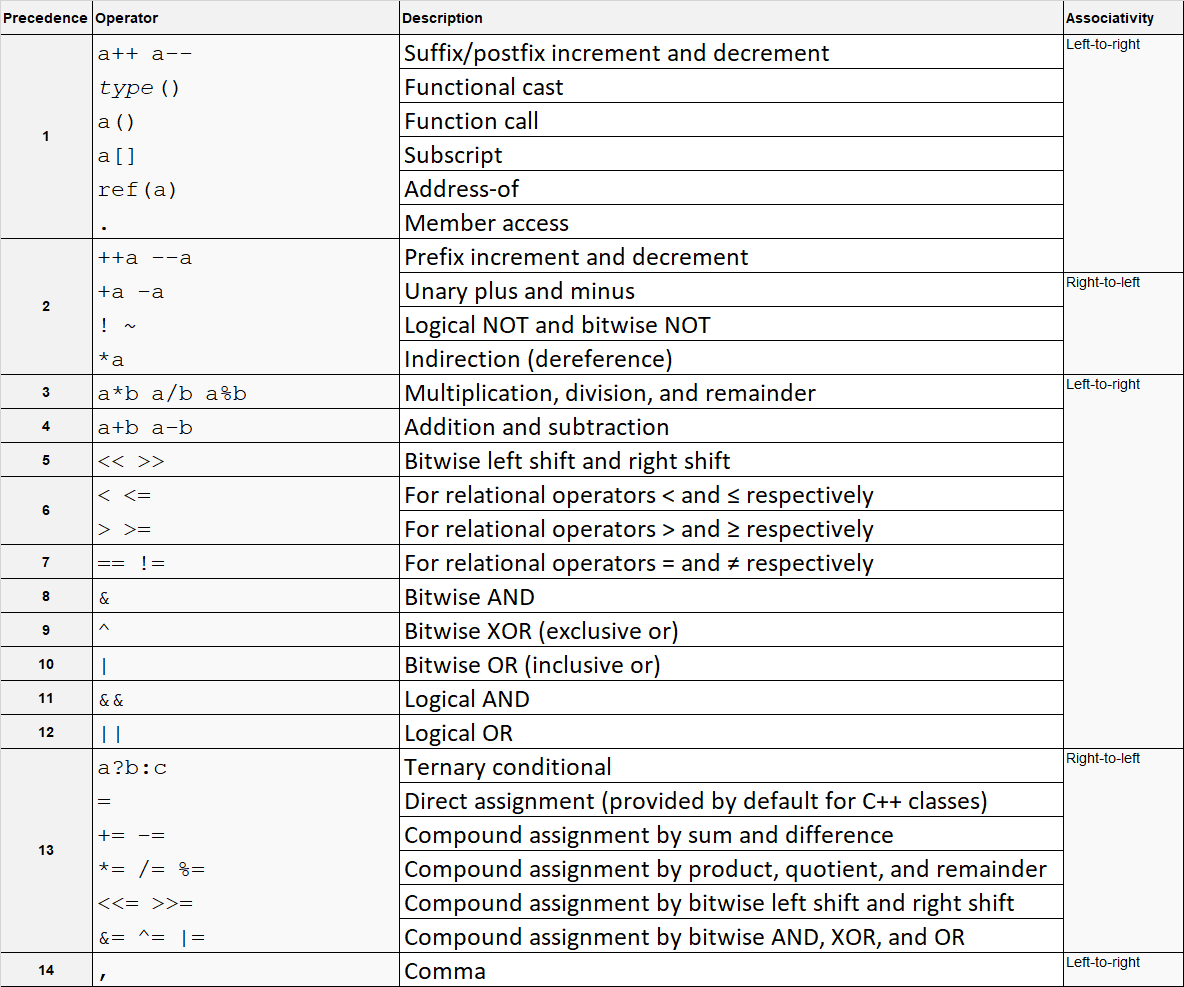
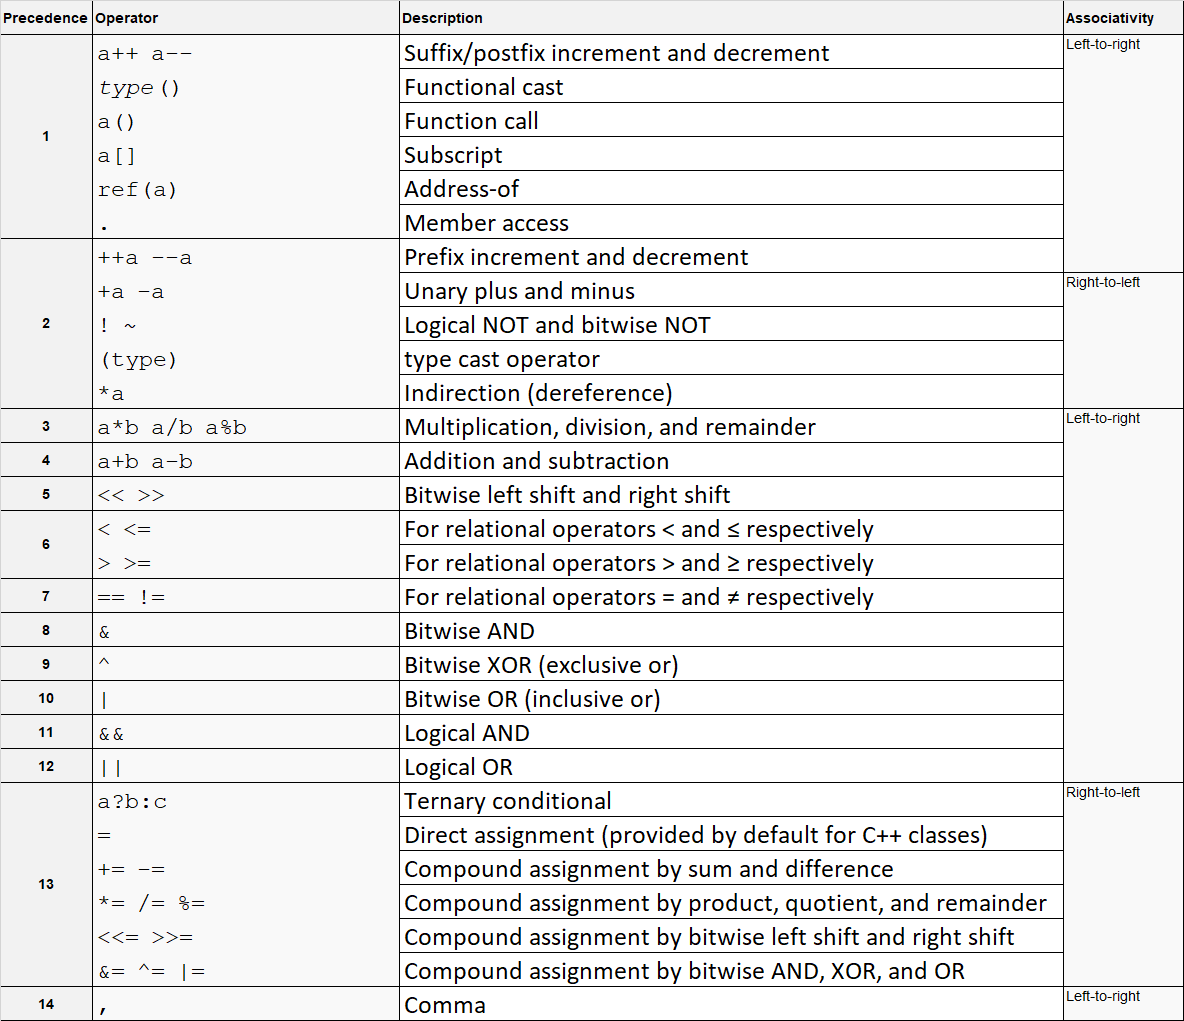
- update document.

diff --git a/README.md b/README.md
@@ -208,7 +208,7 @@ First, you must define the function in C++ part.
  Although this project take me alot of effort to build it from a simple expression parser algorithm to an usable scripting library that can compile, embeded an run the script, it needs more effort to make the library more easy to use, cross platform working...
  I share the desire items I want to implement in the future whenever I have a free time.  
  - [ ] Call un-ordered script function.
- - [ ] Support type cast operator - (Type)a.
+ - [x] Support type cast operator - (Type)a.
  - [ ] Support cross platform (Linux, Mac). Currently, support on Windows only.
  - [ ] Support template function and structure.
  - [ ] Register constructor/destructor in script part.
